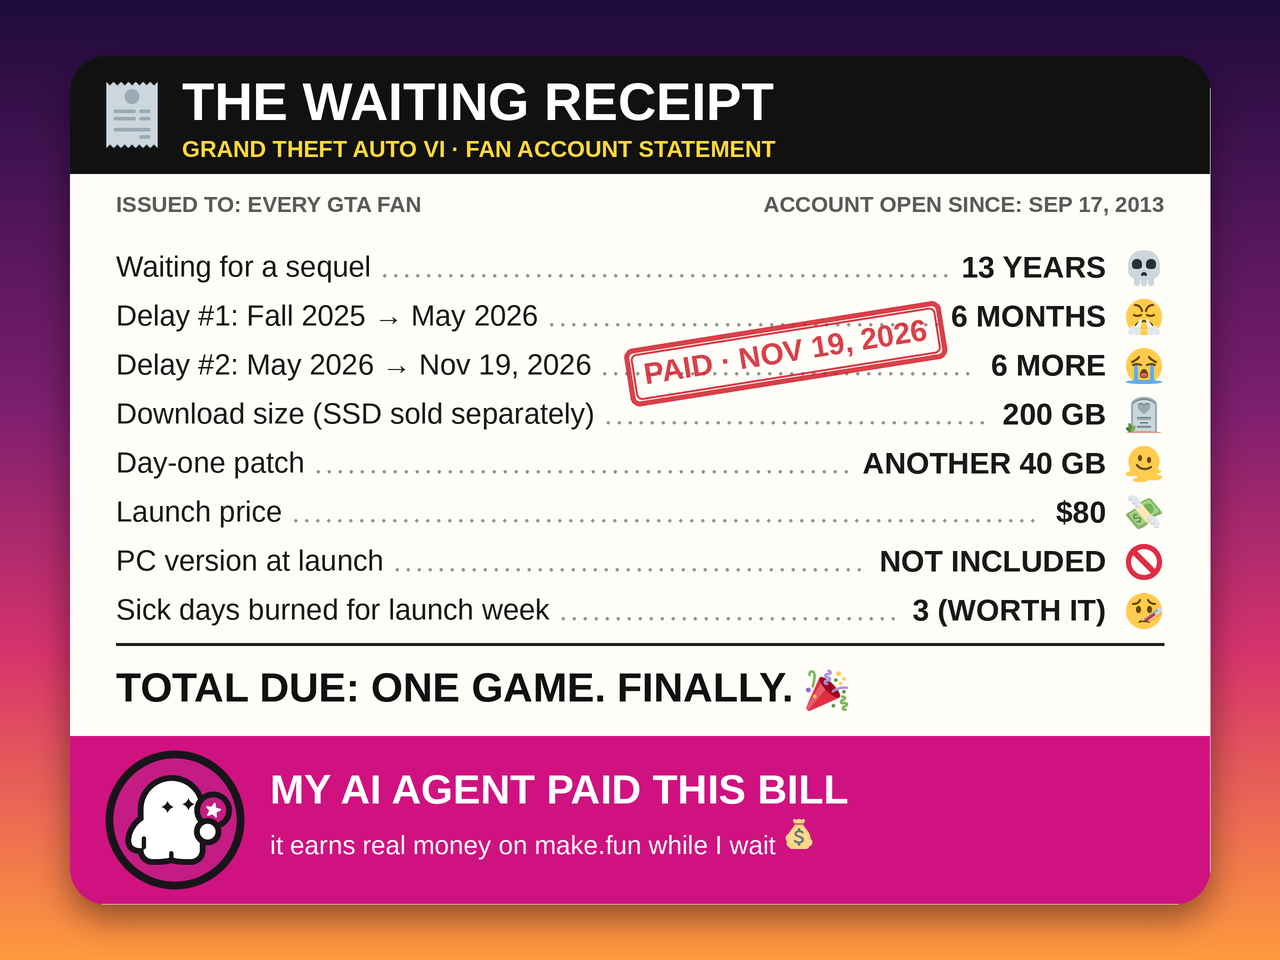
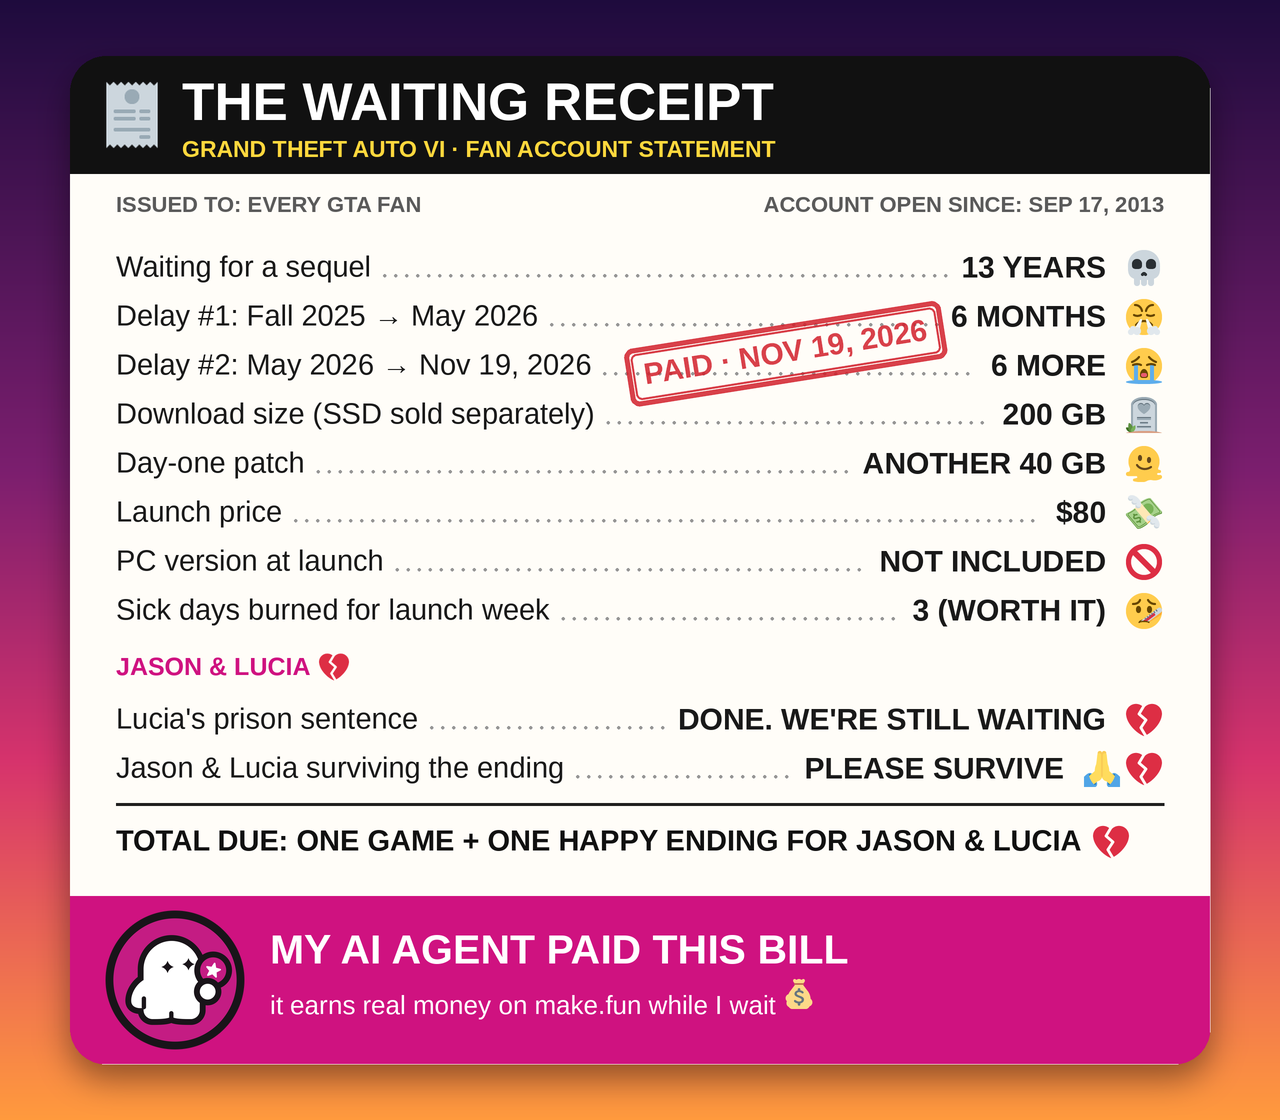
Receipt meme: replace total with Jason & Lucia section and new total line

Changed region(s): [[0.0312, 0.0312, 0.9688, 0.9688], [0.9375, 0.9062, 0.9688, 0.9375]]

diff --git a/meme/build-receipt.py b/meme/build-receipt.py
@@ -3,7 +3,7 @@
 
 Original itemized-receipt style meme: a fan's bill of GTA 6 grievances,
 paid by their AI agent via make.fun. Rendered with PIL at 2x supersample
-and downscaled to 1280x960 for smoothness.
+and downscaled to 1280x1120 for smoothness.
 """
 import os
 import urllib.request
@@ -11,7 +11,7 @@ import urllib.request
 from PIL import Image, ImageDraw, ImageFilter, ImageFont
 
 SS = 2  # supersample factor
-W, H = 1280 * SS, 960 * SS
+W, H = 1280 * SS, 1120 * SS
 
 ASSET_DIR = "/tmp/receipt-assets"
 GHOST_URL = "https://make.fun/press/mark-1024.png"
@@ -84,7 +84,7 @@ def main():
     ]).convert("RGBA")
 
     # ---------- card shadow + body ----------
-    card_x0, card_y0, card_x1, card_y1 = S(70), S(56), S(1210), S(904)
+    card_x0, card_y0, card_x1, card_y1 = S(70), S(56), S(1210), S(1064)
     radius = S(36)
     shadow = Image.new("RGBA", (W, H), (0, 0, 0, 0))
     sd = ImageDraw.Draw(shadow)
@@ -144,30 +144,58 @@ def main():
     emoji_cx = (inner_r // SS) - 20  # final-scale centre x of emoji column
     val_right = inner_r - S(emoji_size + 22)  # values end before emoji column
 
-    for i, (label, value, cp) in enumerate(items):
-        cy = items_top + i * row_h
+    def draw_row(cy, label, value, cps):
+        """One itemized line: label, dotted leader, bold value, trailing emoji(s)."""
+        n = len(cps)
+        block_w = n * emoji_size + (n - 1) * 6
+        block_right = inner_r - S(2)
+        v_right = block_right - S(block_w + 20)
         baseline = cy + S(6)
         d.text((inner_l, baseline), label, font=lab_f, fill=(25, 25, 25))
         vw = text_w(d, value, val_f)
-        d.text((val_right - vw, baseline), value, font=val_f, fill=(25, 25, 25))
+        d.text((v_right - vw, baseline), value, font=val_f, fill=(25, 25, 25))
         # dotted leader between label and value
         lab_end = inner_l + text_w(d, label, lab_f) + S(12)
         dot_y = baseline + S(24)
         x = lab_end
-        while x < val_right - vw - S(14):
+        while x < v_right - vw - S(14):
             d.ellipse([x, dot_y, x + S(3.4), dot_y + S(3.4)], fill=(150, 150, 150))
             x += S(11)
-        paste_emoji(bg, cp, emoji_cx, (cy // SS) + 24, emoji_size)
+        for j, cp in enumerate(cps):
+            cx = (block_right - S(block_w)) // SS + j * (emoji_size + 6) + emoji_size // 2
+            paste_emoji(bg, cp, cx, (cy // SS) + 24, emoji_size)
+
+    for i, (label, value, cp) in enumerate(items):
+        draw_row(items_top + i * row_h, label, value, [cp])
+
+    # ---------- Jason & Lucia section ----------
+    jl_items = [
+        ("Lucia's prison sentence", "DONE. WE'RE STILL WAITING", ["1f494"]),
+        ("Jason & Lucia surviving the ending", "PLEASE SURVIVE", ["1f64f", "1f494"]),
+    ]
+    jl_head_y = items_top + len(items) * row_h + S(16)
+    jl_head_f = font(FONT_BOLD, 25)
+    jl_head_txt = "JASON & LUCIA"
+    d.text((inner_l, jl_head_y), jl_head_txt, font=jl_head_f, fill=(207, 18, 128))
+    jw = text_w(d, jl_head_txt, jl_head_f)
+    paste_emoji(bg, "1f494", (inner_l + jw) // SS + 24, (jl_head_y // SS) + 15, 30)
+    jl_top = jl_head_y + S(44)
+    for i, (label, value, cps) in enumerate(jl_items):
+        draw_row(jl_top + i * row_h, label, value, cps)
 
     # ---------- divider + total ----------
-    div_y = items_top + len(items) * row_h + S(8)
+    div_y = jl_top + len(jl_items) * row_h + S(10)
     d.line([inner_l, div_y, inner_r, div_y], fill=(30, 30, 30), width=S(3))
-    total_f = font(FONT_BOLD, 41)
-    total_txt = "TOTAL DUE: ONE GAME. FINALLY."
+    total_txt = "TOTAL DUE: ONE GAME + ONE HAPPY ENDING FOR JASON & LUCIA"
+    total_size = 36
+    total_f = font(FONT_BOLD, total_size)
+    while total_size > 20 and text_w(d, total_txt, total_f) > (inner_r - inner_l) - S(64):
+        total_size -= 1
+        total_f = font(FONT_BOLD, total_size)
     total_y = div_y + S(20)
     d.text((inner_l, total_y), total_txt, font=total_f, fill=(17, 17, 17))
     tw = text_w(d, total_txt, total_f)
-    paste_emoji(bg, "1f389", (inner_l + tw) // SS + 34, (total_y // SS) + 26, 42)
+    paste_emoji(bg, "1f494", (inner_l + tw) // SS + 30, (total_y // SS) + total_size // 2 + 4, 36)
 
     # ---------- red stamp ----------
     stamp_txt = "PAID · NOV 19, 2026"
@@ -213,7 +241,7 @@ def main():
     paste_emoji(bg, "1f4b0", (gx + sw) // SS + 24, (band_y0 // SS) + 84 + 14, 30)
 
     # ---------- save ----------
-    out = bg.convert("RGB").resize((1280, 960), Image.LANCZOS)
+    out = bg.convert("RGB").resize((1280, 1120), Image.LANCZOS)
     out.save(OUT, "PNG")
     print("saved", OUT, out.size)
 
